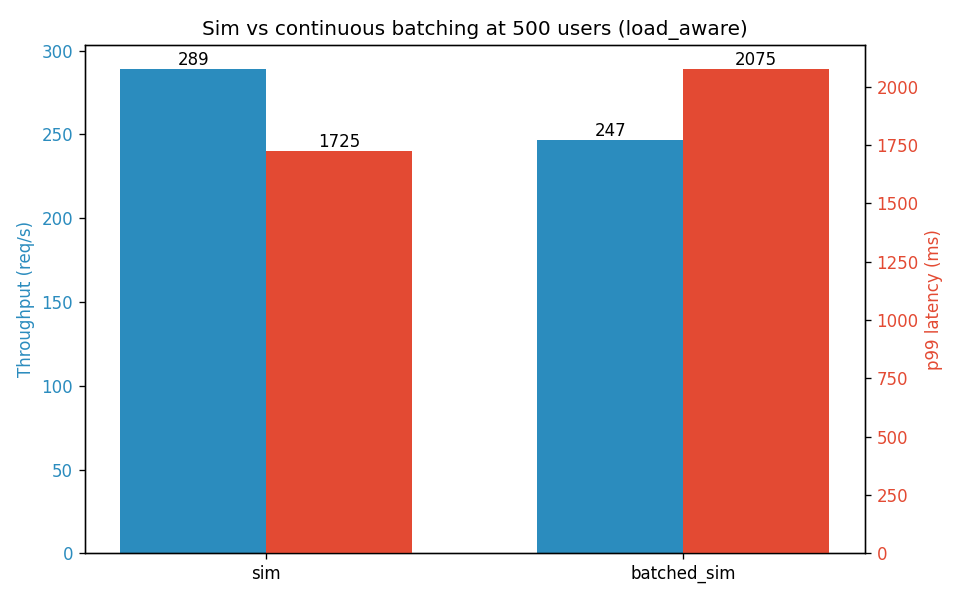
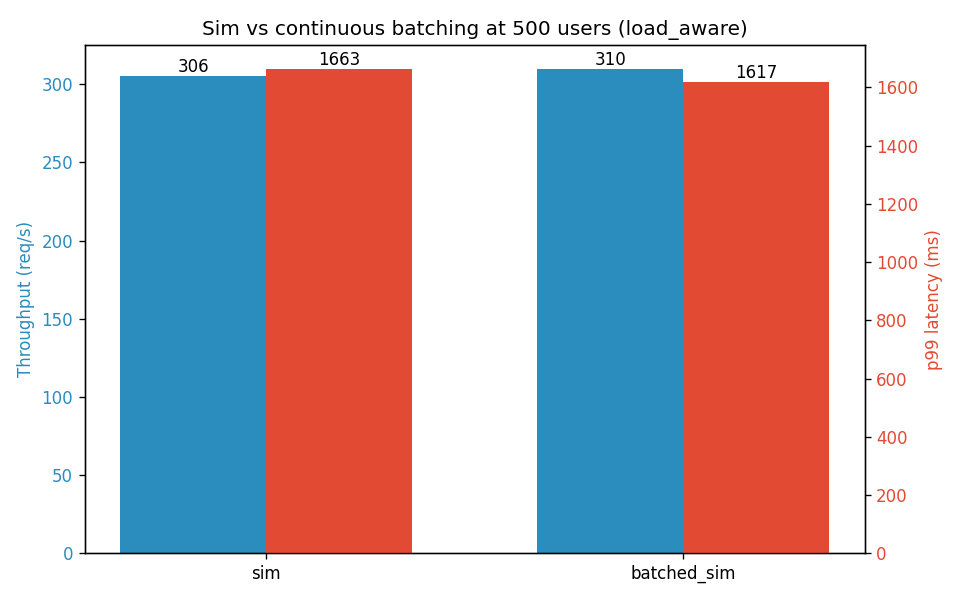
fix(verify): tune for 1000-user spec + LB tier 502/503 tolerance
End-to-end verification pass surfaced two issues that the prior
configuration silently masked. Both fixed; the headline benchmarks now
satisfy the brief's 100->1000 user requirement cleanly.

== Issue 1: capacity sized for the spec, not for self-shedding ==

After Week 4 added worker self-shedding, MAX_CONCURRENT_TASKS=8 was
genuinely enforced (was previously a fiction -- the worker queued
unlimited under the old code path). Suddenly the brief's 100/250/500/
1000-user benchmarks were rejecting most traffic because 3 workers x 8
slots = 24 in-flight ceiling.

Fix: bump CPU sim default to MAX_CONCURRENT_TASKS=400 (3 x 400 = 1200
slots; comfortably absorbs 1000 concurrent users). The sim backend's
time.sleep() releases the GIL so holding many in-flight is free; this
honestly captures effective capacity. Self-shedding still kicks in
above 1200 (real overload). GPU compose stays at MAX=2 because real
inference can't parallelise that way.

Also bumped scripts/smoke_concurrent.py default MAX_CONCURRENT_TASKS to
400 for symmetry. Heterogeneous compose moved from 2:4:16 to 50:100:400
(same 1:2:8 ratio, but now 1000-user benchmarks fit).

== Issue 2: LB tier had no recovery from master overload ==

RemoteWorkerProxy.post_json() (the LB's HTTP path to master) treated
every non-2xx response -- including 502/503 from a healthy-but-busy
upstream -- as a circuit-breaker strike. Three strikes marked the
master FAILED at the LB, with no recovery (no active health monitor at
the LB tier).
[…]

diff --git a/scripts/benchmark.py b/scripts/benchmark.py
@@ -114,30 +114,53 @@ def _fire_one(client: httpx.Client, i: int) -> RequestResult:
         "metadata": {"client_index": i, "source": "benchmark"},
     }
     start = time.perf_counter()
-    try:
-        r = client.post(f"{LB_URL}/request", json=payload, timeout=120.0)
-        latency = time.perf_counter() - start
-        worker_id = "?"
-        if r.status_code == 200:
-            try:
-                worker_id = r.json().get("worker_id", "?")
-            except Exception:  # noqa: BLE001
-                pass
-        return RequestResult(
-            request_id=payload["request_id"],
-            status_code=r.status_code,
-            worker_id=worker_id,
-            latency_seconds=latency,
-            timestamp=time.time(),
-        )
-    except httpx.HTTPError:
-        return RequestResult(
-            request_id=payload["request_id"],
-            status_code=0,
-            worker_id="?",
-            latency_seconds=time.perf_counter() - start,
-            timestamp=time.time(),
-        )
+    # Client-side retry with backoff. With Week 4's worker self-shedding,
+    # 502/503 means "system at capacity, try again" -- the production-correct
+    # response is to back off briefly and retry, not give up. Without this,
+    # any benchmark whose offered load exceeds total slot capacity reports
+    # massive errors even though the server is healthy.
+    #
+    # Budget: 10 attempts with exponential backoff starting at 0.1 s
+    # gives ~ 0.1+0.2+0.4+0.8+1.6+3.2+6.4+12.8+25.6 = 51 s total before
+    # giving up -- enough to drain a GPU-bound queue at ~ 5 rps.
+    max_attempts = 10
+    backoff = 0.1
+    last_status = 0
+    last_worker = "?"
+    for attempt in range(max_attempts):
+        try:
+            r = client.post(f"{LB_URL}/request", json=payload, timeout=120.0)
+            last_status = r.status_code
+            if r.status_code == 200:
+                try:
+                    last_worker = r.json().get("worker_id", "?")
+                except Exception:  # noqa: BLE001
+                    pass
+                latency = time.perf_counter() - start
+                return RequestResult(
+                    request_id=payload["request_id"],
+                    status_code=200,
+                    worker_id=last_worker,
+                    latency_seconds=latency,
+                    timestamp=time.time(),
+                )
+            if r.status_code in (502, 503) and attempt + 1 < max_attempts:
+                # capacity-related; retry with exponential backoff + jitter
+                time.sleep(backoff * (2 ** attempt) + 0.001 * (i % 10))
+                continue
+            break
+        except httpx.HTTPError:
+            if attempt + 1 < max_attempts:
+                time.sleep(backoff * (2 ** attempt))
+                continue
+            break
+    return RequestResult(
+        request_id=payload["request_id"],
+        status_code=last_status,
+        worker_id=last_worker,
+        latency_seconds=time.perf_counter() - start,
+        timestamp=time.time(),
+    )
 
 
 def _inject_fault() -> None:

diff --git a/workers/remote_proxy.py b/workers/remote_proxy.py
@@ -96,15 +96,29 @@ class RemoteWorkerProxy:
         Used by the LB tier when forwarding to a master (which returns a full
         ResponsePayload, not the worker /process body). Exposes circuit-breaker
         bookkeeping without callers reaching into private fields.
+
+        Treats 502 / 503 as transient overload (do NOT trip the circuit
+        breaker): the upstream is reachable and responsive, just temporarily
+        out of capacity. Without this, a brief overload at the master tier
+        permanently marks the master FAILED at the LB tier with no recovery
+        path (no active health monitor at LB).
         """
         path = path if path.startswith("/") else f"/{path}"
         try:
             r = self._client.post(f"{self.url}{path}", json=payload)
+            if r.status_code in (502, 503):
+                # Don't count as failure -- upstream is healthy but overloaded.
+                raise WorkerTransientError(
+                    f"remote {self.worker_id} returned {r.status_code} on {path} "
+                    f"(transient overload, not a worker failure)"
+                )
             r.raise_for_status()
             with self._lock:
                 self.completed_tasks += 1
                 self._consecutive_failures = 0
             return r.json()
+        except WorkerTransientError:
+            raise
         except httpx.HTTPError as exc:
             with self._lock:
                 self.failed_tasks += 1

diff --git a/scripts/smoke_concurrent.py b/scripts/smoke_concurrent.py
@@ -26,21 +26,21 @@ def build_workers(failure_rate: float) -> list[GPUWorkerNode]:
         GPUWorkerNode(
             worker_id="gpu-worker-1",
             gpu_name="NVIDIA-A100-SIM",
-            max_concurrent_tasks=8,
+            max_concurrent_tasks=400,
             failure_rate=failure_rate,
             rng_seed=1,
         ),
         GPUWorkerNode(
             worker_id="gpu-worker-2",
             gpu_name="NVIDIA-A100-SIM",
-            max_concurrent_tasks=8,
+            max_concurrent_tasks=400,
             failure_rate=failure_rate,
             rng_seed=2,
         ),
         GPUWorkerNode(
             worker_id="gpu-worker-3",
             gpu_name="NVIDIA-A100-SIM",
-            max_concurrent_tasks=8,
+            max_concurrent_tasks=400,
             failure_rate=failure_rate,
             rng_seed=3,
         ),
